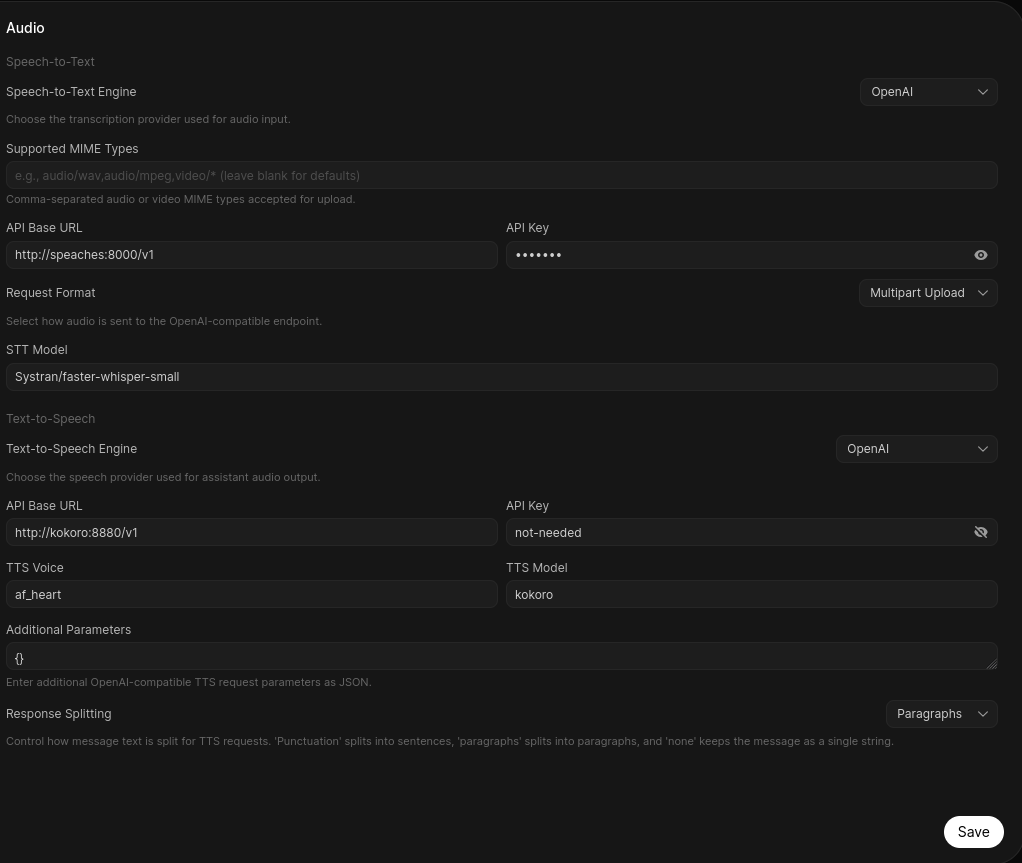
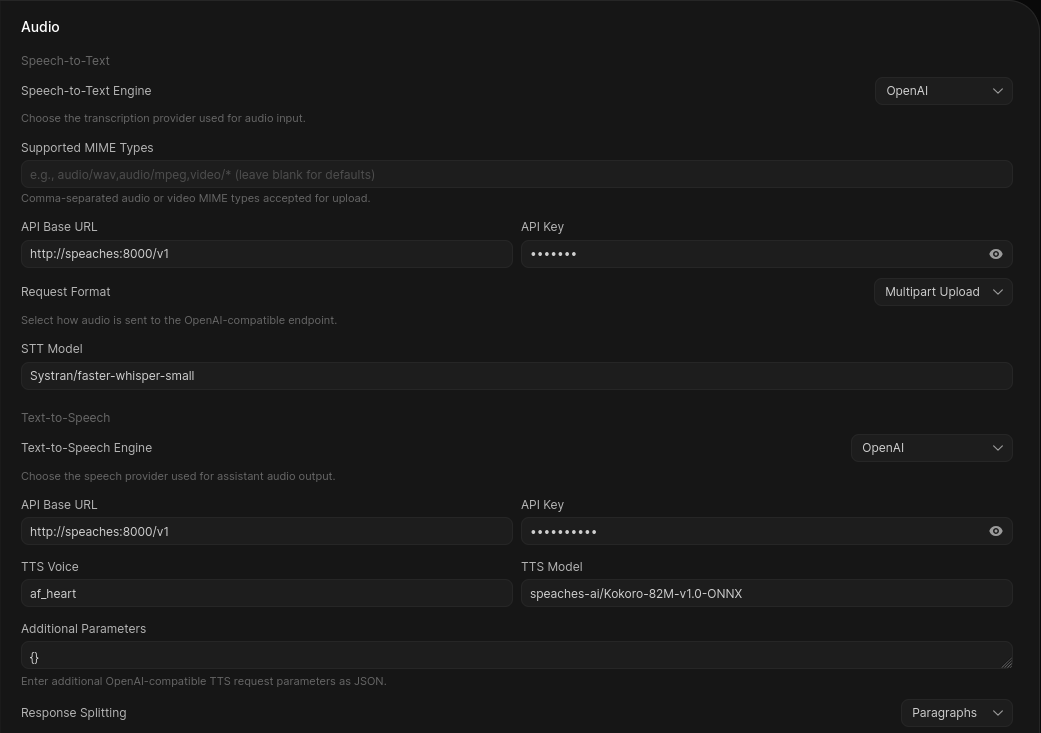
lowed vram usage by consolidating docker containers

diff --git a/README.md b/README.md
@@ -106,8 +106,7 @@ docker compose up -d
 This boots:
 - **SearXNG** — local metasearch engine (`http://localhost:8080`)
 - **Open WebUI** — web frontend (`http://localhost:3000`)
-- **Kokoro**- TTS backend (`http://localhost:8880`)
-- **Speaches**- STT backend (`http://localhost:8001`)
+- **Speaches**- STT/TTS backend (`http://localhost:8001`)
 
 ### 4. Configure STT TTS and custom open web UI functions
 
@@ -266,11 +265,18 @@ To set this up first first set the openweb-ui audio page to look EXACTLY at foll
 
 Then procede to `http://localhost:8001/docs` to download your stt model, the eaiset way I found to do this was through the /docs endpoint tester. You could probbably write a function for openweb UI to do it too, but since you only have to do this once I figured these directons were good enough.
 
-Locate the "/v1/models/{model_id} Download Remote Model" feild and use the test/try endpoint button to request Systran/faster-whisper-small This downloads the model.
-Next run the same model in the "/v1/models/{model_id} Get Local Model" feild
+Locate the "/v1/models/{model_id} Download Remote Model" feild and use the test/try endpoint button to request "Systran/faster-whisper-small" This downloads the model.
+Next run the same model in the "/v1/models/{model_id} Get Local Model" feild to make it available to the engine
 
-To test it worked run /v1/audio/models List Local Audio Models. If it gives your model then a long list of language prefixes it's ready. 
+To test it worked run /v1/audio/models List Local Audio Models. If it gives your models then a long list of language prefixes it's ready. 
+
+Repeat this process then with the speaches-ai/Kokoro-82M-v1.0-ONNX model using both download remote and get local model.
+
+To see a list of other voices you can use the  /v1/audio/voices List Local Audio Voices endpoint 
+
 Save your open web UI setting and **IMPORTANT** close and reload your docker containers. Open web UI doesn't activate these settings until you kill its docker container completely and reload. Why? I have no idea.
+
+
 
 
 ## Open web UI-get active model and Kill model -Requires manual setup
